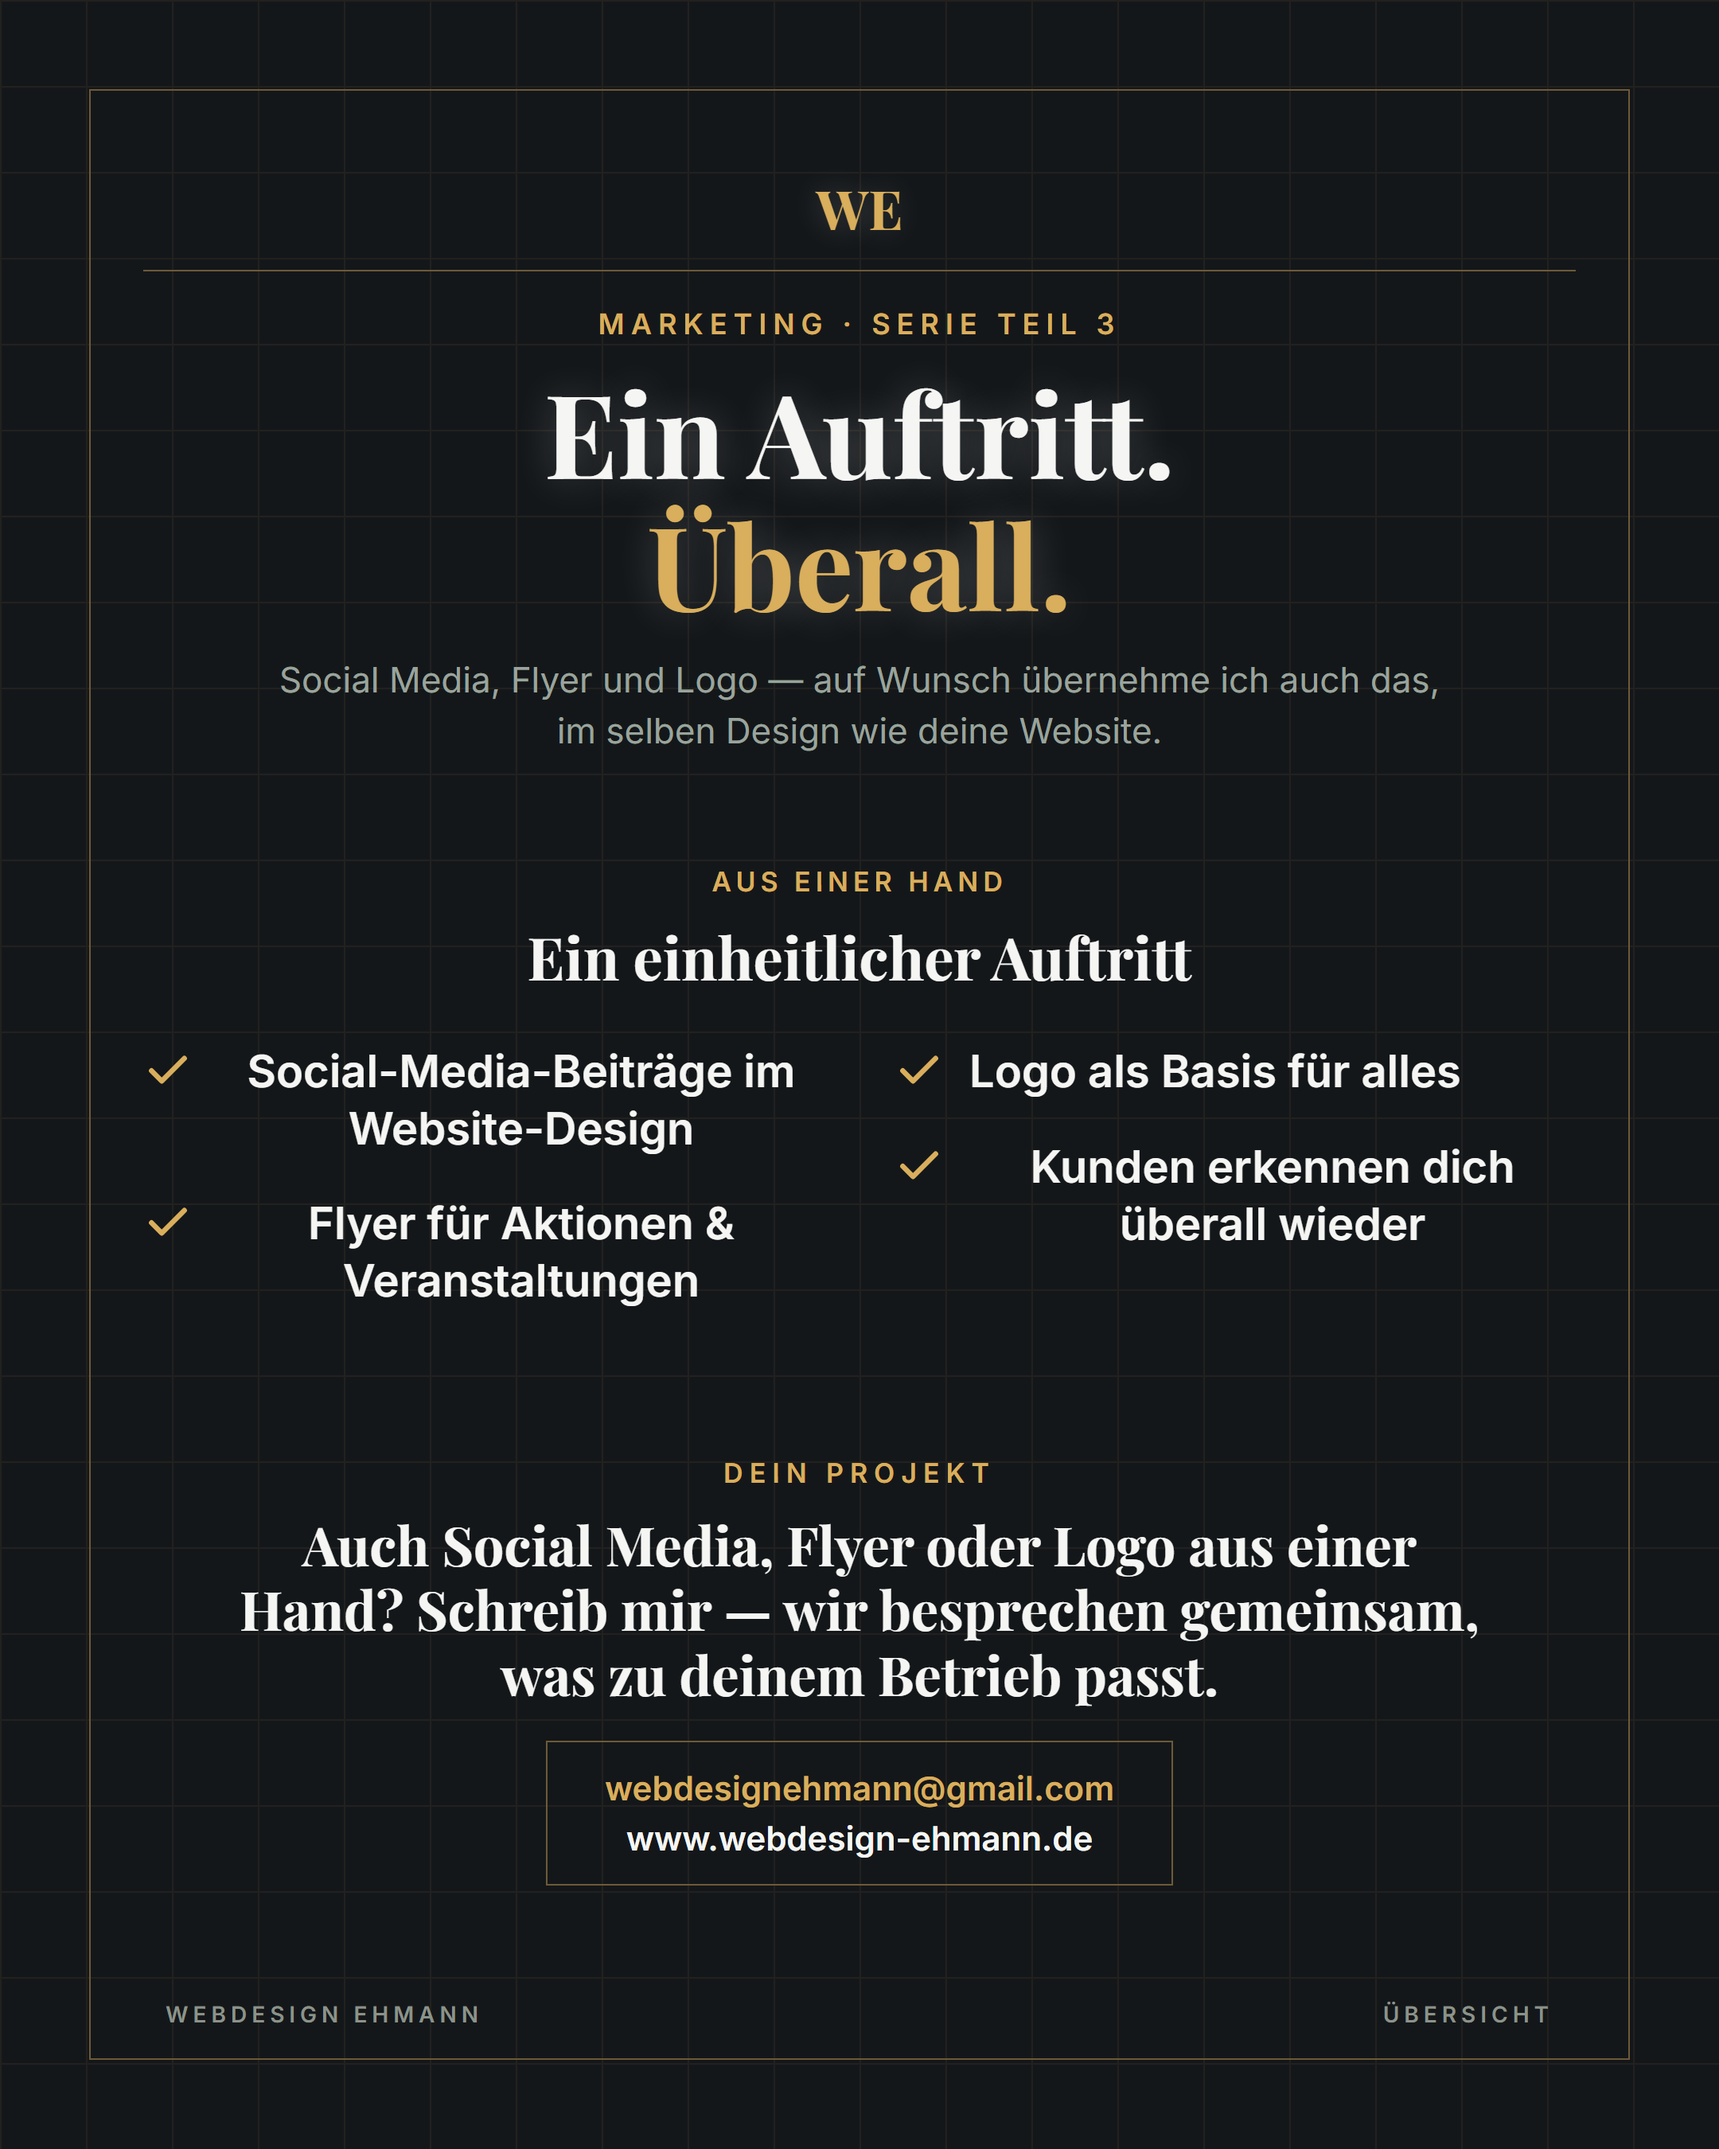
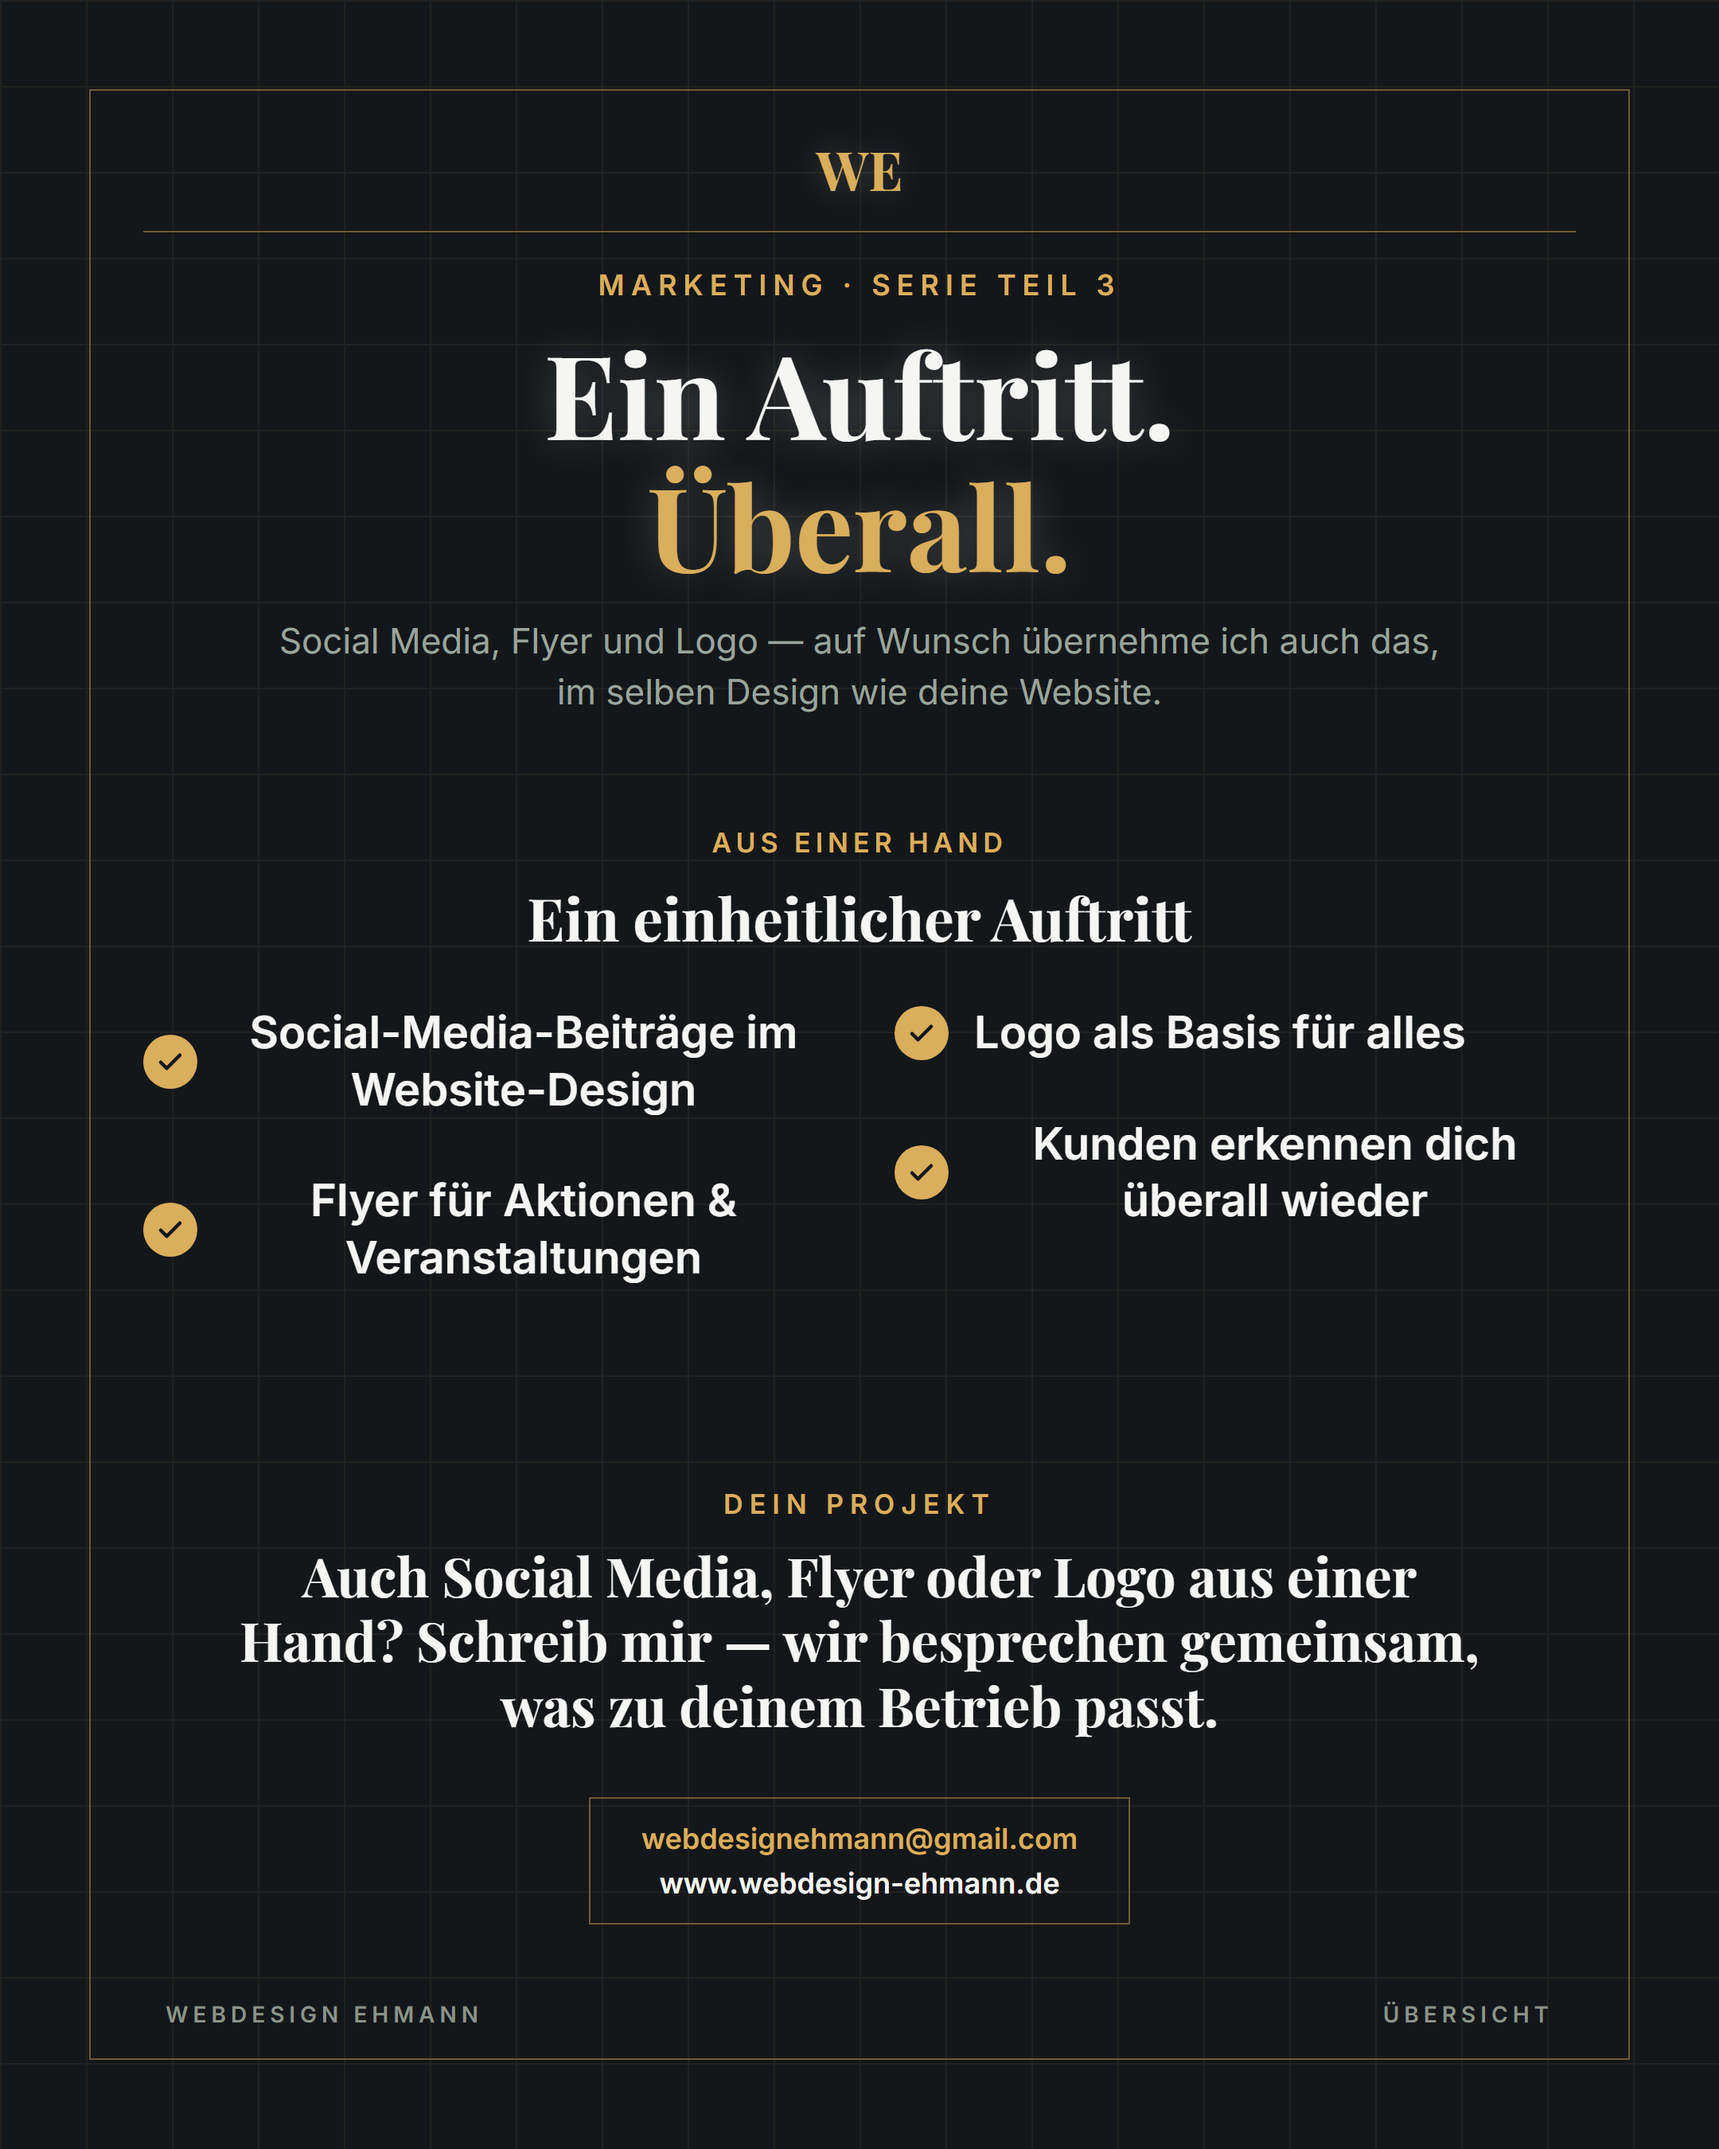
Instagram-Uebersicht-Slides: Checkliste als Gold-Badges, CTA-Bereich tiefer
Checkmarks jetzt als ausgefuellte Gold-Kreise statt duenner Outline-Haken,
mehr Abstand zwischen den Punkten fuer sauberere Trennung. Unterer
Projekt/Kontakt-Bereich weiter nach unten gerueckt, Kontaktbox-Text
etwas kleiner.

diff --git a/assets/marketing/instagram-posts/_build/overview-generic.js b/assets/marketing/instagram-posts/_build/overview-generic.js
@@ -48,14 +48,16 @@ function pointsColumns(points) {
 }
 
 function checkIcon() {
-  return `<svg width="31" height="31" viewBox="0 0 24 24" fill="none" stroke="${t.accent}" stroke-width="2.5" stroke-linecap="round" stroke-linejoin="round"><path d="M4 12.5l5 5L20 6.5"/></svg>`;
+  return `<div style="width:34px; height:34px; border-radius:50%; background:${t.accent}; display:flex; align-items:center; justify-content:center;">
+    <svg width="18" height="18" viewBox="0 0 24 24" fill="none" stroke="${t.bg}" stroke-width="3" stroke-linecap="round" stroke-linejoin="round"><path d="M4 12.5l5 5L20 6.5"/></svg>
+  </div>`;
 }
 
 function pointsList(points) {
   const [colA, colB] = pointsColumns(points);
   const row = (item) => `
-    <div style="display:flex; align-items:flex-start; gap:16px; margin-bottom:24px;">
-      <div style="flex-shrink:0; margin-top:1px;">${checkIcon()}</div>
+    <div style="display:flex; align-items:center; gap:16px; margin-bottom:34px;">
+      <div style="flex-shrink:0;">${checkIcon()}</div>
       <div style="font-family:'Inter',sans-serif; font-weight:700; font-size:28px; line-height:1.28; color:${t.headline};">${item}</div>
     </div>`;
   if (!colB.length) {
@@ -95,10 +97,10 @@ html, body { width:${WIDTH}px; height:${HEIGHT}px; overflow:hidden; background:$
 .hook-subtext { font-family:'Inter',sans-serif; font-weight:400; font-size:22px; line-height:1.45; color:${t.subtext}; max-width:760px; margin:16px auto 0; }
 .points-kicker { font-family:'Inter',sans-serif; font-weight:600; font-size:17px; letter-spacing:3px; text-transform:uppercase; color:${t.kicker}; margin-top:68px; }
 .points-headline { font-family:'Playfair Display',serif; font-weight:700; font-size:37px; color:${t.headline}; margin-top:12px; margin-bottom:30px; }
-.cta-kicker { font-family:'Inter',sans-serif; font-weight:600; font-size:17px; letter-spacing:4px; text-transform:uppercase; color:${t.kicker}; margin-top:68px; }
+.cta-kicker { font-family:'Inter',sans-serif; font-weight:600; font-size:17px; letter-spacing:4px; text-transform:uppercase; color:${t.kicker}; margin-top:92px; }
 .cta-headline { font-family:'Playfair Display',serif; font-weight:700; font-size:34px; line-height:1.2; color:${t.headline}; margin-top:14px; max-width:800px; }
-.contact-box { border:1px solid ${t.border}; padding:16px 36px; margin-top:22px; flex-shrink:0; }
-.contact-box a, .contact-box span { display:block; font-family:'Inter',sans-serif; font-weight:600; font-size:21px; text-align:center; }
+.contact-box { border:1px solid ${t.border}; padding:14px 32px; margin-top:38px; flex-shrink:0; }
+.contact-box a, .contact-box span { display:block; font-family:'Inter',sans-serif; font-weight:600; font-size:18px; text-align:center; }
 .contact-email { color:${t.accent}; margin-bottom:6px; text-decoration:none; }
 .contact-web { color:${t.headline}; font-weight:400; }
 .footer { position:absolute; left:104px; right:104px; bottom:76px; display:flex; justify-content:space-between; font-family:'Inter',sans-serif; font-weight:600; font-size:14px; letter-spacing:3px; text-transform:uppercase; color:${t.footer}; }
